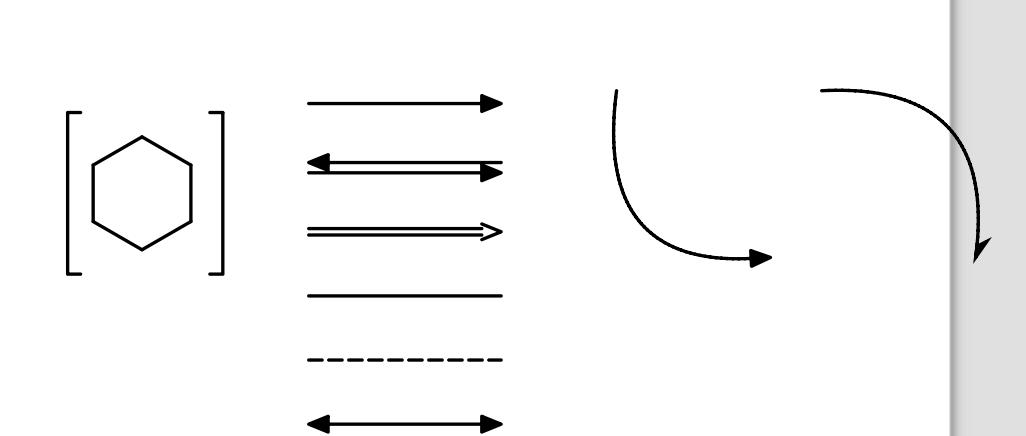
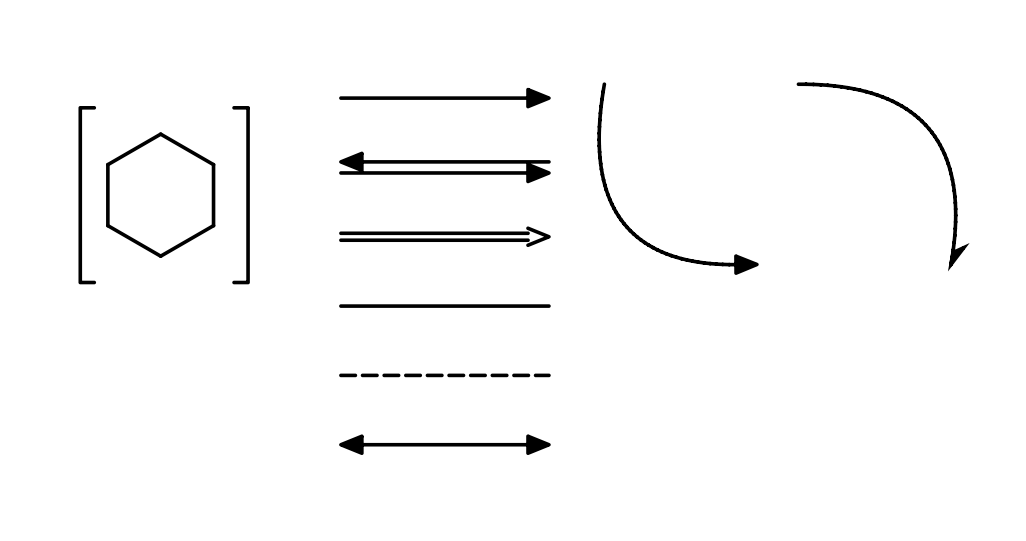
docs(manual): corregir privacidad y reproducibilidad beta.4

diff --git a/docs/manual-figures/capturar_figuras.py b/docs/manual-figures/capturar_figuras.py
@@ -77,7 +77,9 @@ def save(pm, name):
         REPORT.append(line)
         print(line, flush=True)
         return
-    pm.save(os.path.join(OUT, name))
+    if not pm.save(os.path.join(OUT, name)):
+        REPORT.append(f"FALLO {name}: no se pudo guardar")
+        return
     line = f"OK    {name}  {pm.width()}x{pm.height()}"
     REPORT.append(line)
     print(line, flush=True)
@@ -148,6 +150,7 @@ def grab_region(name, x, y, w, h, scale=1.4):
     rect = QRectF(x, y, w, h)
     CANVAS.setSceneRect(rect)
     CANVAS.fitInView(rect, Qt.AspectRatioMode.KeepAspectRatio)
+    CANVAS.centerOn(rect.center())
     pump(8)
     tl = CANVAS.mapFromScene(rect.topLeft())
     br = CANVAS.mapFromScene(rect.bottomRight())
@@ -284,10 +287,9 @@ def grupo_paneles():
         REPORT.append("FALLO 47-paleta-comandos.png: sin objeto command_palette")
 
 
-def grupo_fig():
-    wanted = sys.argv[2:]
+def grupo_fig(wanted=None):
     for name, fn in FIGS.items():
-        if not wanted or name in wanted:
+        if wanted is None or name in wanted:
             print(f"-- figura {name}", flush=True)
             fn()
 
@@ -300,17 +302,17 @@ def grupo_contenido():
 def _fig_flechas():
     # Flechas y corchetes junto a una estructura pequena.
     new_window(width=1100, height=760)
-    draw_ring(170.0, 210.0, 44.0)
+    draw_ring(170.0, 210.0, 44.0, aromatic=False)
     CANVAS.add_arrow_item(QPointF(300, 140), QPointF(450, 140), "forward")
     CANVAS.add_arrow_item(QPointF(300, 190), QPointF(450, 190), "equilibrium")
     CANVAS.add_arrow_item(QPointF(300, 240), QPointF(450, 240), "retrosynthetic")
     CANVAS.add_arrow_item(QPointF(300, 290), QPointF(450, 290), "line")
     CANVAS.add_arrow_item(QPointF(300, 340), QPointF(450, 340), "line_dashed")
     CANVAS.add_arrow_item(QPointF(300, 390), QPointF(450, 390), "both")
-    CANVAS.add_arrow_item(QPointF(540, 130), QPointF(660, 260), "curved", 0.6)
-    CANVAS.add_arrow_item(QPointF(700, 130), QPointF(820, 260), "curved_fishhook", -0.6)
+    CANVAS.add_arrow_item(QPointF(490, 130), QPointF(600, 260), "curved", 0.6)
+    CANVAS.add_arrow_item(QPointF(630, 130), QPointF(740, 260), "curved_fishhook", -0.6)
     CANVAS.add_bracket_item(QRectF(120, 155, 105, 110), "[]")
-    grab_region("20-canvas-flechas-corchetes.png", 60, 60, 800, 340)
+    grab_region("20-canvas-flechas-corchetes.png", 55, 70, 740, 390)
 
     # Placas: TLC y gel de electroforesis (valores por defecto del dialogo).
     reset_canvas()
@@ -321,27 +323,24 @@ def _fig_flechas():
     CANVAS._insert_tlc_plate_item(QPointF(300, 250))
     CANVAS._insert_gel_electrophoresis_item(QPointF(620, 250))
     pump(12)
-    # Distribuir manchas y bandas a distinto Rf (equivale a "Set Rf..." del
-    # menu contextual) para una figura representativa.
-    rf_values = [0.25, 0.55, 0.8, 0.4, 0.65]
-    n = 0
-    for item in list(CANVAS.scene.items()):
-        lane = getattr(item, "lane_ref", None)
-        if lane is None or not hasattr(lane, "baseline_y"):
-            continue
-        dist_total = lane.baseline_y() - lane.solvent_front_y()
-        if dist_total == 0:
-            continue
-        rf = rf_values[n % len(rf_values)]
-        n += 1
-        item.setY(lane.scenePos().y() + lane.baseline_y() - rf * dist_total)
-        if hasattr(item, "_show_rf_label"):
-            item._show_rf_label = True
+    # Las posiciones de manchas y bandas son locales al carril, no a la escena.
+    from chemuson.gui.plate_items import GelElectrophoresisItem, TLCPlateItem
+
+    plates = [item for item in CANVAS.scene.items() if isinstance(item, TLCPlateItem)]
+    gels = [item for item in CANVAS.scene.items() if isinstance(item, GelElectrophoresisItem)]
+    if len(plates) != 1 or len(gels) != 1:
+        raise RuntimeError("No se encontraron la placa TLC y el gel esperados")
+    for lane, rf in zip(plates[0].lane_items, (0.25, 0.55, 0.80, 0.40, 0.65)):
+        for spot, _ in lane.rf_labels:
+            spot.setY(lane.baseline_y() - rf * (lane.baseline_y() - lane.solvent_front_y()))
+            spot._show_rf_label = True
         lane.update_rf_labels()
+    for lane, distance in zip(gels[0].lane_items, (35, 65, 95, 125, 155)):
+        for band, _ in lane.bands:
+            band.setY(lane.well_y() + distance)
     CANVAS.scene.clearSelection()
     pump(8)
-    CANVAS.centerOn(0, 0)
-    grab_region("21-canvas-placas.png", 0, 0, 1100, 700)
+    grab_region("21-canvas-placas.png", 210, 200, 780, 420)
 
     print("-- simbolos", flush=True)
     # Simbolos quimicos sobre una estructura sencilla (morfolino).
@@ -481,7 +480,9 @@ def grupo_contextual():
 
     context_shot("30-contextual-atomo.png", atom_item.pos(), atom_item)
     context_shot("31-contextual-enlace.png", bond_item.pos(), bond_item)
-    context_shot("32-contextual-lienzo-vacio.png", QPointF(120, 120), None)
+    context_shot("32-contextual-lienzo-vacio.png", QPointF(120, 120), None, with_sub=True)
+    if not any("33-contextual-analisis-submenu.png" in entry for entry in REPORT):
+        REPORT.append("FALLO 33-contextual-analisis-submenu.png: submenú ausente")
     for aid in ids[:3]:
         CANVAS.atom_items[aid.id].setSelected(True)
     CANVAS._sync_selection_from_scene()
@@ -501,8 +502,6 @@ def main():
     ps.application_settings = factory
     asm.application_settings = factory
 
-    APP = QApplication([])
-    groups = set(sys.argv[1:])
     all_groups = {
         "ventana": grupo_ventana,
         "menu": grupo_menu,
@@ -510,14 +509,47 @@ def main():
         "contenido": grupo_contenido,
         "contextual": grupo_contextual,
         "paneles": grupo_paneles,
-        "fig": grupo_fig,
     }
-    for key, fn in all_groups.items():
-        if not groups or key in groups:
-            print(f"### {key}", flush=True)
-            fn()
+    args = sys.argv[1:]
+    if args and args[0] == "fig":
+        wanted = args[1:]
+        unknown = set(wanted) - FIGS.keys()
+        if unknown:
+            print(f"Figuras desconocidas: {', '.join(sorted(unknown))}", file=sys.stderr)
+            return 2
+        groups = []
+    else:
+        unknown = set(args) - all_groups.keys()
+        if unknown:
+            print(f"Grupos desconocidos: {', '.join(sorted(unknown))}", file=sys.stderr)
+            return 2
+        wanted = None
+        groups = args or list(all_groups)
+    APP = QApplication([])
+    if args and args[0] == "fig":
+        grupo_fig(wanted or None)
+    else:
+        for key, fn in all_groups.items():
+            if key in groups:
+                print(f"### {key}", flush=True)
+                fn()
+        if set(groups) == set(all_groups):
+            expected = set(os.listdir(os.path.dirname(os.path.abspath(__file__))))
+            expected = {name for name in expected if name.endswith('.png')}
+            generated = {entry.split()[1] for entry in REPORT if entry.startswith('OK')}
+            for name in sorted(expected - generated):
+                REPORT.append(f"FALLO {name}: figura esperada no generada")
+    if (args and args[0] == "fig") or (
+        "contenido" in groups and not {"contextual", "paneles"} & set(groups)
+    ):
+        # Cerrar la ventana de contenido antes de terminar evita que Qt destruya
+        # las anotaciones pendientes durante la finalización del intérprete.
+        new_window()
+    if W is not None:
+        W.close()
+        pump(10)
     print("\n".join(REPORT))
-    return 0
+    return int(any(entry.startswith("FALLO") for entry in REPORT))
 
 
 if __name__ == "__main__":

diff --git a/docs/MANUAL_USUARIO.md b/docs/MANUAL_USUARIO.md
@@ -83,7 +83,7 @@ Si no se muestra ningún documento, cree uno con `Ctrl+N` (**Archivo → Nuevo**
 
 ![Ventana principal de ChemUSON 0.3.0-beta.4 con el panel Inspector abierto](manual-figures/01-ventana-tema-claro.png)
 
-*Figura 1. Ventana principal de ChemUSON 0.3.0-beta.4 en tema claro, con un ciclohexano recién dibujado y el panel lateral en la pestaña **Inspector**. La barra superior muestra el documento «Sin título», el buscador «Buscar o ejecutar…» y los botones de deshacer/rehacer, tema y preferencias.*
+*Figura 1. Ventana principal de ChemUSON 0.3.0-beta.4 en tema claro, con un anillo de seis carbonos recién dibujado y el panel lateral en la pestaña **Inspector**. La barra superior muestra el documento «Sin título», el buscador «Buscar o ejecutar…» y los botones de deshacer/rehacer, tema y preferencias.*
 
 La interfaz se organiza en seis zonas:
 
@@ -135,10 +135,10 @@ En la barra de estado se indica siempre la herramienta activa.
 El ejercicio siguiente muestra el ciclo completo de trabajo con una molécula pequeña, el **1-propanol**.
 
 1. **Cree un documento** con `Ctrl+N`.
-2. **Dibuje el esqueleto.** Con la herramienta **Enlaces** activa (tecla `B`), arrastre desde un punto vacío del lienzo hacia la derecha: se crea un átomo de carbono y un enlace. Suelte cuando el enlace tenga la dirección deseada; repita el arrastre desde el último átomo para añadir el siguiente enlace. Los ángulos se ajustan automáticamente a las direcciones habituales de dibujo.
-3. **Añada el oxígeno.** Active la herramienta **Átomos** (`C`) y, en su paleta, elija `O`. Haga clic sobre el extremo derecho de la cadena: ese átomo pasa a ser oxígeno.
-4. **Limpie el dibujo.** Pulse `Ctrl+K` (**Estructura → Limpiar 2D (1 paso)**). El esquema se ordena: longitudes uniformes, ángulos normales y anillos regulares. Véase [Limpieza 2D](#441-limpieza-y-conformación-2d).
-5. **Compruebe la química.** Active **Ver → Paneles → Inspector** para ver lo que hay bajo la selección y **Validación** para revisar valencias. Ejecute **Estructura → Análisis → Fórmula química**: el resultado se escribe como texto en el lienzo (véase [Análisis químico](#14-análisis-químico-nomenclatura-y-validación)).
+2. **Dibuje tres carbonos consecutivos.** Con **Enlaces** activa (`B`), arrastre desde un punto vacío para crear el primer enlace entre dos carbonos. Arrastre desde uno de sus extremos para añadir un tercer carbono. Compruebe que hay tres carbonos en cadena.
+3. **Añada el oxígeno sin sustituir un carbono.** Arrastre otro enlace desde un carbono terminal hacia un punto vacío: se crea un nuevo átomo. Active **Átomos** (`C`), elija `O` en su paleta y haga clic en ese nuevo átomo para convertirlo en oxígeno. La estructura es **CH₃–CH₂–CH₂–OH**.
+4. **Limpie el dibujo.** Pulse `Ctrl+K` (**Estructura → Limpiar 2D (1 paso)**). Véase [Limpieza 2D](#441-limpieza-y-conformación-2d).
+5. **Compruebe la química.** Ejecute **Estructura → Análisis → Fórmula química** y verifique que sea **C₃H₈O**. Confirme también que el grupo hidroxilo está unido a un carbono terminal. El resultado se escribe como texto en el lienzo; use **Ver → Paneles → Validación** para revisar valencias (véase [Análisis químico](#14-análisis-químico-nomenclatura-y-validación)).
 6. **Guarde.** `Ctrl+S` guarda en el formato propio `.cmsn`, que conserva todos los objetos del documento.
 
 > **Si un átomo queda con valencia incorrecta**, el panel **Validación** lo lista y permite saltar a él con `F8`.
@@ -645,7 +645,7 @@ Cambiar el color o eliminar una mancha **no se puede deshacer**; mover una manch
 
 ![Placa TLC y gel de electroforesis con Rf distintos](manual-figures/21-canvas-placas.png)
 
-*Figura 25. Placa TLC (izquierda) y gel de electroforesis (derecha) insertados con la herramienta **Placas**. Las manchas de la placa se han colocado en Rf 0,25 / 0,55 / 0,80 con **Set Rf...**; el gel muestra cinco pozos con sus bandas y la escala en unidades de distancia.*
+*Figura 25. Ejemplo didáctico, no experimental: placa TLC (izquierda), con manchas en Rf 0,25 / 0,55 / 0,80, y gel de electroforesis (derecha), con cinco pozos y bandas a distintas alturas. Las escalas muestran Rf y distancia, respectivamente.*
 
 > **Advertencia de uso.** Estos objetos son material gráfico para comunicar un resultado. ChemUSON no analiza imágenes de cromatografía ni calcula Rf a partir de una fotografía: el valor que usted escriba es el que se muestra.
 
@@ -945,7 +945,7 @@ Para geometría y energías calculadas, use el panel **CompChem** con un motor e
 
 *Figura 36. Vista **CompChem** recién abierta: selectores **Backend** y **Campo de fuerza**, indicador de estado, tabla de seguimiento y los seis botones de trabajo geométrico y de exportación.*
 
-Abra **Ver → Paneles → CompChem**. La vista prepara geometría y archivos de entrada:
+Abra **Ver → Paneles → CompChem**. La vista prepara geometría y archivos de entrada:
 
 | Control | Función |
 |---|---|
@@ -971,9 +971,17 @@ El propio cuadro del asistente reúne la configuración y la petición. Sus grup
 | Grupo | Controles |
 |---|---|
 | Petición | **Descripción** y, en el modo de dibujo, **Método de resolución**: **IA + referencia**, **Solo IA** o **Referencia química**. |
-| **Referencias químicas** | Casilla **Permitir referencias químicas externas (PubChem)**. Sin marcar, solo se consultan referencias locales y la caché; **Solo IA** nunca accede a la red. |
+| **Referencias químicas** | Casilla **Permitir referencias químicas externas (PubChem)**. Sin marcar, las referencias químicas se limitan a fuentes locales y caché; esta opción no controla la conexión del proveedor IA. |
 | **Proveedor IA** | **Proveedor** (**OpenAI-compatible (personalizado)**, **OpenAI**, **LM Studio**, **llama.cpp server**), **Endpoint base**, **Modelo** y la clave del proveedor. |
 | **Opciones avanzadas** | **Timeout (s)** (60 por defecto), **Máximo de tokens de salida** (4096 por defecto) y **Solicitar salida JSON estructurada si el endpoint la admite**. |
+
+Los métodos de dibujo se distinguen así:
+
+- **Solo IA** utiliza el proveedor configurado, que puede ser local o remoto.
+- **Referencia química** consulta las fuentes químicas permitidas por la configuración, sin llamar al modelo.
+- **IA + referencia** combina ambos mecanismos cuando corresponde; la consulta de referencia depende de que se reconozca una petición de molécula por nombre.
+
+> **Privacidad de la investigación.** Deshabilitar PubChem no impide que un proveedor remoto de IA reciba la descripción y, en una transformación, información de la estructura seleccionada. Si trabaja con estructuras inéditas, confidenciales o sujetas a restricciones de divulgación, revise el endpoint, las políticas del proveedor y las autorizaciones antes de enviar datos. Un proveedor puede evitar enviar la descripción a servicios externos solo si realmente se ejecuta localmente y no utiliza servicios remotos.
 
 Estado real en 0.3.0-beta.4:
 
@@ -1006,7 +1014,7 @@ Con `Ctrl+V`:
 
 | Contenido del portapapeles | Comportamiento |
 |---|---|
-| Seleccionión previa de ChemUSON | Se pegan todos los objetos (átomos, enlaces, textos, flechas…). |
+| Selección previa de ChemUSON | Se pegan todos los objetos (átomos, enlaces, textos, flechas…). |
 | Texto SMILES | Se interpreta **únicamente como SMILES** y se construye la estructura. |
 | Molfile con formato interno de ChemUSON | Se importa como estructura (es lo que produce **Editar → Copiar como → Molfile**). |
 | Ruta de archivo copiada en el gestor de archivos | Se inserta el archivo de imagen referido. |
@@ -1063,7 +1071,7 @@ El guardado automático **no sustituye** a `Ctrl+S`: no guarda en su archivo y s
 
 ### 18.1 Preferencias
 
-Abralas con **Editar → Preferencias...** o con el botón de la barra superior. El diálogo tiene cuatro pestañas:
+Ábralas con **Editar → Preferencias...** o con el botón de la barra superior. El diálogo tiene cuatro pestañas:
 
 | Pestaña | Controles que muestra |
 |---|---|
@@ -1084,7 +1092,7 @@ Dos aclaraciones verificadas:
 
 ### 18.2 Cambiar el tema
 
-Use el botón de tema de la barra superior (alternancia rápida) o **Preferencias → Apariencia** para fijarlo. Ambas ventanas se muestran en las figuras 1 y 2.
+Use el botón de tema de la barra superior para alternar entre claro y oscuro. Ambos temas se muestran en las figuras 1 y 2.
 
 ### 18.3 Buscar actualizaciones
 
@@ -1314,7 +1322,7 @@ Todas las figuras de este manual son **capturas auténticas de ChemUSON 0.3.0-be
 
 | Fig. | Archivo | Contenido |
 |---|---|---|
-| 1 | `01-ventana-tema-claro.png` | Ventana principal de ChemUSON 0.3.0-beta.4 en tema claro, con un ciclohexano recién dibujado y e |
+| 1 | `01-ventana-tema-claro.png` | Ventana principal en tema claro con un anillo de seis carbonos y el panel Inspector. |
 | 2 | `02-ventana-tema-oscuro.png` | La misma ventana en tema oscuro. El tema se cambia con el botón de media luna de la barra superi |
 | 3 | `47-paleta-comandos.png` | Paleta de comandos abierta con Ctrl+P. Escriba una palabra (por ejemplo «limpiar», «plantilla» o |
 | 4 | `05-menu-editar.png` | Menú Editar de ChemUSON 0.3.0-beta.4, con el submenú Copiar como y la entrada Rotar. |
@@ -1338,7 +1346,7 @@ Todas las figuras de este manual son **capturas auténticas de ChemUSON 0.3.0-be
 | 22 | `17-flyout-orbitales.png` | Paleta ORBITALES del rail (tecla O). Los nombres son los que muestra la propia aplicación. |
 | 23 | `24-canvas-orbitales.png` | Doce glifos de la paleta de Orbitales: s en contorno y sombreado, p sombreado y sólido, d sombre |
 | 24 | `15-flyout-placas.png` | Paleta PLACAS del rail: Placa TLC y Gel de Electroforesis. |
-| 25 | `21-canvas-placas.png` | Placa TLC (izquierda) y gel de electroforesis (derecha) insertados con la herramienta Placas. La |
+| 25 | `21-canvas-placas.png` | Ejemplo didáctico de TLC con tres valores de Rf y gel con cinco bandas. |
 | 26 | `30-contextual-atomo.png` | Clic derecho sobre un átomo: Cortar, Copiar, Pegar, Eliminar, Carga formal ▸, Activar esfera de |
 | 27 | `31-contextual-enlace.png` | Clic derecho sobre un enlace: además de las acciones básicas ofrece Reordenar rama ▸ (con Girar |
 | 28 | `34-contextual-seleccion.png` | Con varios objetos seleccionados se añade Redimensionar selección... y Grosor de enlace/flecha/c |

diff --git a/openspec/changes/revise-user-manual-beta-4/validation.md b/openspec/changes/revise-user-manual-beta-4/validation.md
@@ -8,6 +8,24 @@ Cambio puramente documental: conforme a `docs/testing/AGENT_TESTING_POLICY.md` y
 - Referencia funcional del contenido: tag `v0.3.0-beta.4` (sin diferencias en `src/` respecto a `main`).
 - Las capturas se generaron ejecutando la aplicación con `QT_QPA_PLATFORM=offscreen` y PyQt6 sobre Python 3.14.
 
+## Baseline de microcampaña (antes de modificar)
+
+- Rama `docs/manual-usuario-beta4-campana`, HEAD y PR #13 `4699bea0ccb4a8d296e9afdfa719262706548627`; `git status --short` vacío. Referencias remotas actualizadas con `git fetch origin --prune`.
+- Linux, Python 3.14.8, PyQt6 disponible; tag `v0.3.0-beta.4` = `514b2013ba7406d3a03b6e613d0ad471f2684a39`; `git diff v0.3.0-beta.4 HEAD -- src` vacío.
+- `python -m compileall -q src tests tools packaging`: éxito; `ruff check docs/manual-figures/capturar_figuras.py --select F401,F811,F821,E722,E741`: éxito; `openspec validate revise-user-manual-beta-4 --strict`: éxito; `git diff --check`: limpio.
+- Comando documentado de captura con `CHEMUSON_OUT` temporal: salida 0 pero solo **29/37** PNG. Faltan 20–26 por selección de grupo y 33 por no solicitar el submenú; no se informó error. Evidencia local: `/tmp/chemuson-manual-baseline.log`.
+- Los cinco hilos de Codex estaban abiertos; nombre del AppImage y actualización por plataforma ya se corrigieron en commits previos. No se ejecutó pytest masivo.
+
+## Validación de la microcampaña
+
+- **Alcance:** manual, generador documental, dos PNG y registros OpenSpec; ningún cambio en producción o dependencias. El HEAD base de esta validación es `4699bea0ccb4a8d296e9afdfa719262706548627`, con los cambios de microcampaña en el árbol de trabajo.
+- **Cinco hallazgos:** privacidad y generador corregidos aquí; el ejercicio previo de 2-propanol se había sustituido por 1-propanol en `8f534285` pero aún omitía el cuarto átomo, corregido aquí; AppImage coincide con la lista de assets de la release y fue corregido en `89c93660`; actualizaciones por plataforma se corrigieron en `71e113f2`.
+- **Interfaz:** prueba Qt offscreen con tres arrastres y selección del oxígeno mediante `set_active_element`: cuatro átomos C–C–C–O y tres enlaces simples; `chem/bin/python` (RDKit 2026.03.6) devolvió SMILES `CCCO`. El atajo `Ctrl+K` se contrastó en `src/chemuson/gui/actions/structure_actions.py`. Una primera prueba con Python del sistema obtuvo la misma conectividad pero el worker informó `rdkit_unavailable` porque ese intérprete no tiene RDKit; no se presenta como PASS.
+- **Generador:** `QT_QPA_PLATFORM=offscreen CHEMUSON_OUT=/tmp/chemuson-verify-all python docs/manual-figures/capturar_figuras.py ventana menu flyout contenido contextual paneles` terminó con salida 0, **37/37 PNG**, sin `FALLO`. Los dos PNG modificados coinciden con la regeneración temporal. `fig flechas` genera siete PNG con salida 0; nombres de grupo o figura desconocidos devuelven 2. El script previo también reproducía SIGSEGV al finalizar `fig flechas` en este entorno; la nueva ventana de cierre evita esa destrucción tardía de Qt sin tocar la aplicación.
+- **Revisión visual:** hojas de contacto de los 37 PNG y lectura a tamaño real de figuras 17 y 25: flechas completas; manchas TLC 0,25/0,55/0,80 y cinco bandas reales visibles. Las escenas se generan con objetos de beta.4; el gel es ilustrativo. No se reemplazaron otros PNG. Las figuras de paneles mantienen espacio vacío y texto pequeño inherentes a las capturas originales; conviene revisarlas en la maquetación institucional posterior.
+- **Validación documental local:** 22 capítulos, 37 imágenes/leyendas consecutivas, 37 filas de inventario correspondientes, 82 enlaces revisados para rutas y anclas locales, ambos README enlazan al manual; `openspec validate revise-user-manual-beta-4 --strict`, Ruff focal y `git diff --check` sin errores. El nombre del AppImage se cotejó con los assets publicados de `v0.3.0-beta.4` mediante `gh api`.
+- **Limitaciones editoriales:** las descripciones de varias filas de los dos índices de figuras heredados están truncadas; las leyendas completas junto a cada imagen son la referencia. No se inspeccionó el renderizado en escritorio/HiDPI ni se generó PDF. El propietario debe revisar y aprobar el Markdown antes del merge.
+
 ## Comprobaciones y resultados
 
 | Comprobación | Resultado |

diff --git a/docs/manual-figures/README.md b/docs/manual-figures/README.md
@@ -22,9 +22,13 @@ QT_QPA_PLATFORM=offscreen python docs/manual-figures/capturar_figuras.py \
   ventana menu flyout contenido contextual paneles
 ```
 
-El script escribe los archivos en esta misma carpeta y muestra por consola una línea `OK nombre.png anchoxalto` por cada captura. Si una paleta o un menú cambian, la captura correspondiente simplemente no se genera y el script lo avisa.
+Para no sobrescribir las capturas existentes, establezca `CHEMUSON_OUT` en un directorio temporal vacío antes de ejecutar el comando. Para usar otro checkout del código de beta.4, indique su ruta en `CHEMUSON_REPO`. Sin estas variables se usa el repositorio y la carpeta actuales.
 
-Grupos disponibles: `ventana` (ventana completa), `menu` (menús de la barra), `flyout` (paletas del rail), `contenido` (objetos del lienzo), `contextual` (menú del clic derecho) y `paneles` (vistas del panel lateral).
+El script muestra `OK nombre.png anchoxalto` por captura y devuelve un código distinto de cero ante errores registrados. Al pedir todos los grupos comprueba además que se produzcan todos los PNG del inventario versionado (actualmente 37). Compare las imágenes antes de reemplazarlas: las diferencias de fuentes, plataforma o Qt pueden alterar las capturas.
+
+Grupos disponibles: `ventana` (ventana completa), `menu` (menús de la barra), `flyout` (paletas del rail), `contenido` (objetos del lienzo), `contextual` (menú del clic derecho) y `paneles` (vistas del panel lateral). Los nombres de grupos no se interpretan como filtros de figuras. Para ejecutar una figura registrada individualmente use `python docs/manual-figures/capturar_figuras.py fig flechas` (este registro genera los siete archivos 20–26). `fig` sin nombre ejecuta todos los registros individuales; nombres desconocidos causan error.
+
+Las figuras 17 y 25 se corrigieron en la microcampaña: el ciclo de la figura 17 es no aromático; la figura 25 usa posiciones locales de carril para tres manchas de ejemplo y cinco bandas reales. Los valores son ilustrativos, no experimentales.
 
 ## Índice de archivos
 

diff --git a/openspec/changes/revise-user-manual-beta-4/tasks.md b/openspec/changes/revise-user-manual-beta-4/tasks.md
@@ -23,6 +23,15 @@
 - [x] 4.4 Pasada cruzada de las 55 rutas de menú citadas contra los volcados de la interfaz.
 - [x] 4.5 Barrido inverso de los 229 elementos de la interfaz para detectar funciones sin documentar; las cuatro lagunas halladas se documentan.
 - [x] 4.6 Regeneración y verificación del inventario de figuras (37/37, cero desajustes).
+## Microcampaña de revisión del PR #13
+
+- [x] Precisar la privacidad de los proveedores IA y las referencias químicas.
+- [x] Corregir y contrastar la conectividad del ejercicio de 1-propanol.
+- [x] Reparar la selección de grupos y la captura del submenú; comprobar el inventario completo y la selección individual.
+- [x] Corregir el encuadre de flechas y corchetes y los ejemplos TLC/gel con objetos auténticos.
+- [x] Contrastar los hallazgos previos del AppImage y del actualizador, los enlaces, las figuras y la versión funcional.
+- [ ] Aprobación editorial del propietario y resolución de los hilos del PR tras revisar la evidencia.
+
 ## 5. Entrega
 
 - [x] 5.1 Publicar la rama `docs/manual-usuario-beta4-campana` y abrir la PR hacia `main` (**#13**), sin combinarla.
